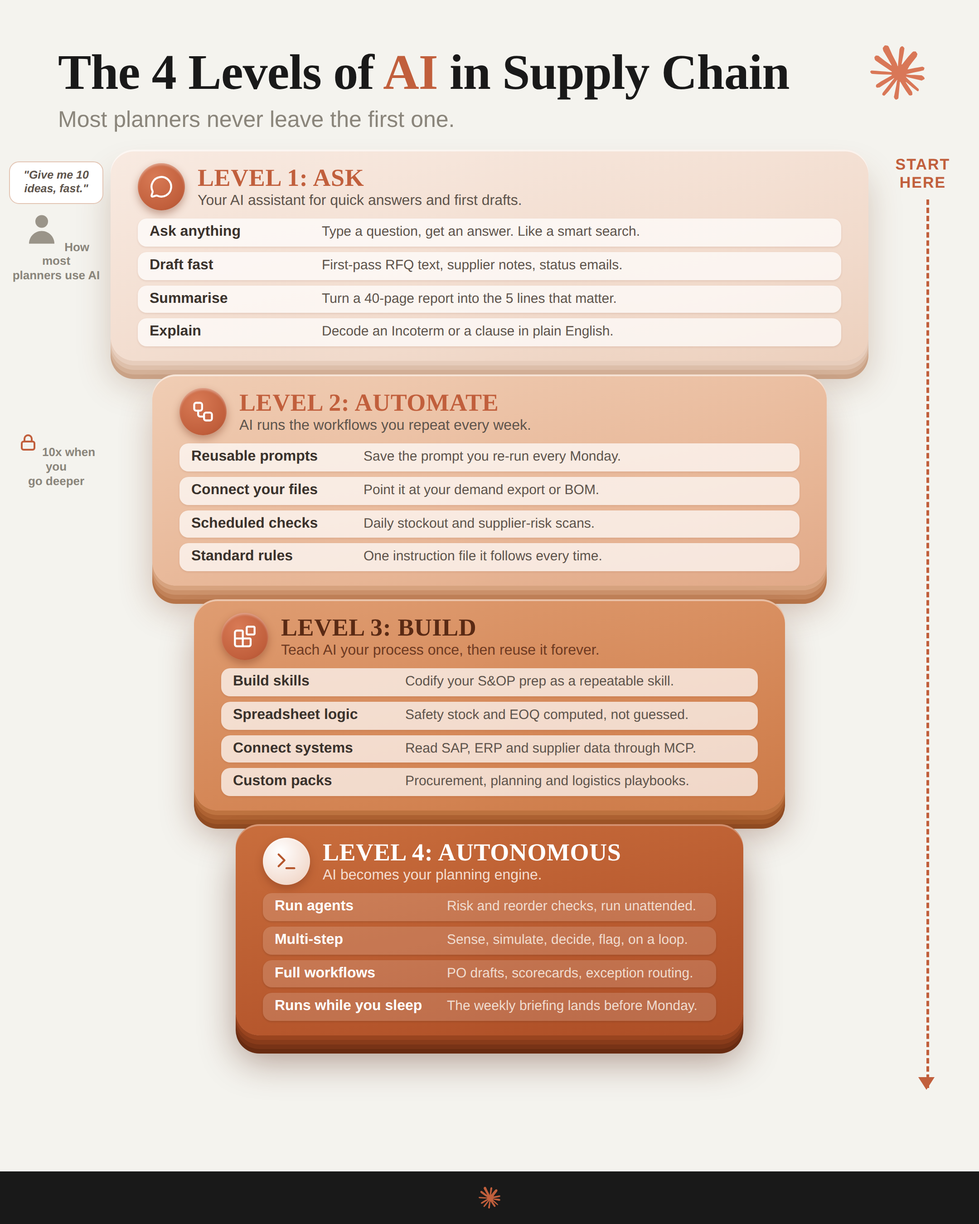
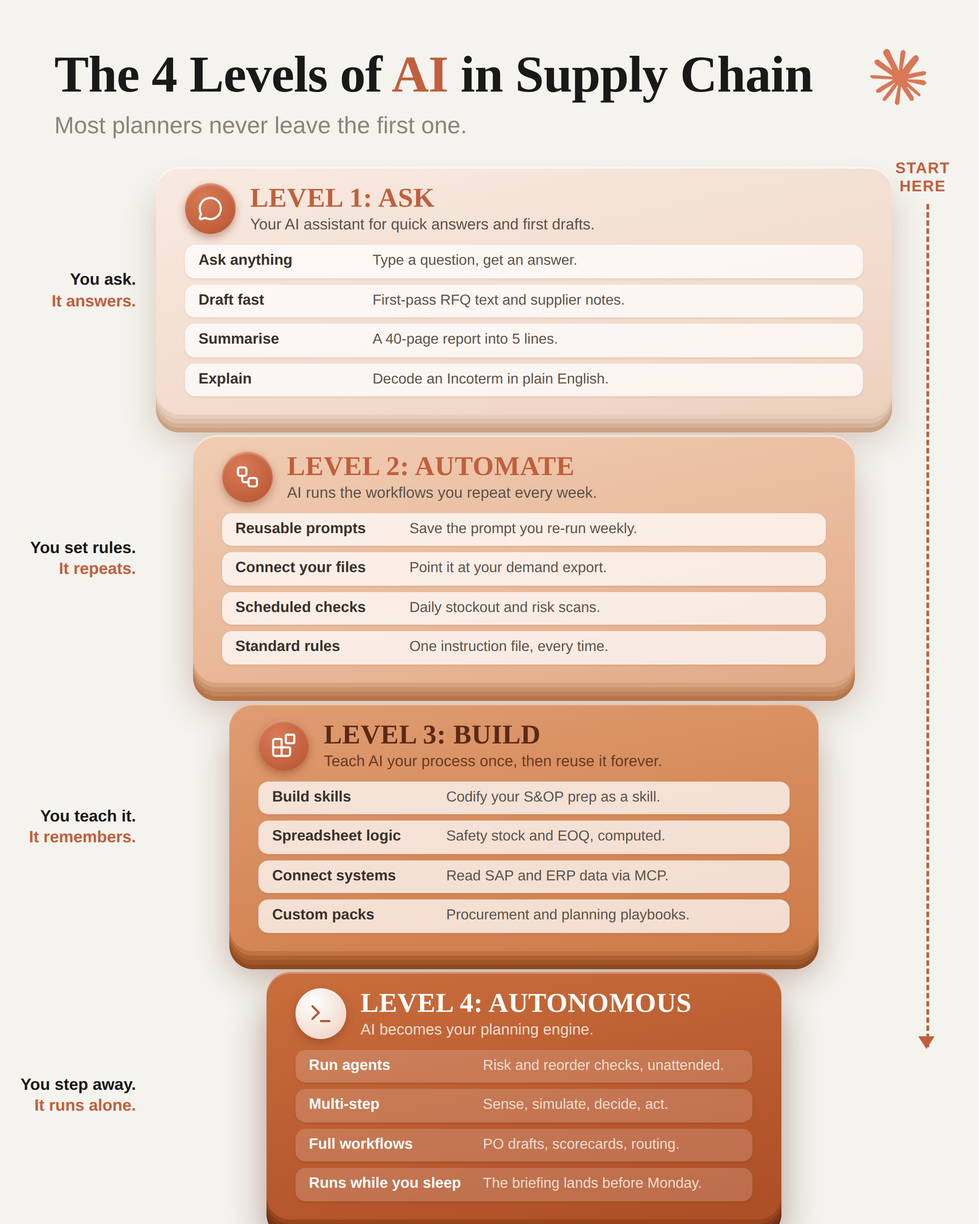
Redesign pilots: per-layer annotations, bigger type, more whitespace
PF1 (ladder):
- Replace jumbled left silhouette/padlock with one clean grid-aligned text
  block per layer ("You ask / It answers" ... "You step away / It runs alone")
- Remove black footer bar; larger type throughout; more whitespace

PF5 (hub):
- Remove black footer bar; bump text size across all cards for readability
- Use-case cards flex so Result anchors to the bottom (no hollow space)
- Normalize stack-logo strip; open up vertical whitespace

https://claude.ai/code/session_01Vrk5xpdsJ5u5M1yAaQw8Yb

diff --git a/infographic-setup/renderer/templates/pf1-maturity-ladder.html b/infographic-setup/renderer/templates/pf1-maturity-ladder.html
@@ -3,9 +3,10 @@
 <head>
 <meta charset="UTF-8">
 <!--
-  PF1 — Maturity Ladder  (reconstruction of reference file 71)
-  Icons: Lucide (ISC). Brand logo: @lobehub/icons-static-svg (Claude, official #D97757).
-  Canvas 1080x1350 (4:5). Coral-on-cream. No sign-off / no role badge (brand rule).
+  PF1 — Maturity Ladder v3 (reconstruction of reference file 71)
+  Per-layer left annotation blocks (grid-aligned), no footer bar, larger type,
+  more whitespace. Icons: Lucide (ISC). Brand: Claude logo (@lobehub/icons).
+  Canvas 1080x1350 (4:5). Coral-on-cream.
 -->
 <link rel="preconnect" href="https://fonts.googleapis.com">
 <link rel="preconnect" href="https://fonts.gstatic.com" crossorigin>
@@ -13,72 +14,65 @@
 <style>
   :root{
     --cream:#F4F3EE; --ink:#191919; --grey:#8A857B; --coral:#C15F3C;
-    --l1:#F3E0D6; --l2:#E7B59B; --l3:#D58A63; --l4:#B45A30;
-    --l1d:#E3C5B4; --l2d:#CF9778; --l3d:#B96E48; --l4d:#8E4322;
     --serif:'Fraunces',Georgia,serif; --sans:'Inter',-apple-system,'Segoe UI',Helvetica,Arial,sans-serif;
   }
   *{margin:0;padding:0;box-sizing:border-box;}
   body{background:#ddd;}
   .canvas{width:1080px;height:1350px;background:var(--cream);position:relative;
-    font-family:var(--sans);color:var(--ink);overflow:hidden;padding:52px 0 0;}
-  .head{padding:0 64px;}
-  .title{font-family:var(--serif);font-weight:700;font-size:55px;line-height:1.02;letter-spacing:-.5px;max-width:880px;}
+    font-family:var(--sans);color:var(--ink);overflow:hidden;padding:54px 0 0;}
+  .head{padding:0 60px;}
+  .title{font-family:var(--serif);font-weight:700;font-size:57px;line-height:1.02;letter-spacing:-.5px;max-width:870px;}
   .title .c{color:var(--coral);}
-  .sub{font-size:25px;color:var(--grey);margin-top:10px;font-weight:500;}
-  .brand{position:absolute;top:50px;right:60px;width:60px;height:60px;}
+  .sub{font-size:26px;color:var(--grey);margin-top:11px;font-weight:500;}
+  .brand{position:absolute;top:54px;right:58px;width:62px;height:62px;}
   .brand svg{width:100%;height:100%;}
-  /* ladder — true extruded 3D slabs */
-  .ladder{width:836px;margin:18px auto 0;display:flex;flex-direction:column;align-items:center;gap:15px;position:relative;}
-  .tier{border-radius:26px;padding:15px 30px 16px;position:relative;}
+  /* ladder */
+  .ladder{margin-top:30px;display:flex;flex-direction:column;gap:23px;}
+  .lrow{display:grid;grid-template-columns:172px 1fr 96px;align-items:center;}
+  .lside{text-align:right;padding-right:22px;}
+  .la-a{display:block;font-weight:700;font-size:18px;color:var(--ink);line-height:1.3;}
+  .la-b{display:block;font-weight:600;font-size:18px;color:var(--coral);line-height:1.3;}
+  .tier{justify-self:center;border-radius:26px;padding:18px 32px 20px;position:relative;}
   .t1{width:100%;background:linear-gradient(168deg,#F8EAE1 0%,#F1DACB 70%,#ECD0BD 100%);
     box-shadow:0 5px 0 #E7CDBC,0 10px 0 #DEC0AB,0 15px 0 #D4B198,0 20px 0 #CAA286,
-      0 26px 36px rgba(120,70,40,.26),inset 0 2px 0 rgba(255,255,255,.6);}
-  .t2{width:89%;background:linear-gradient(168deg,#F0CDB4 0%,#E7B595 70%,#E1A988 100%);
+      0 27px 38px rgba(120,70,40,.26),inset 0 2px 0 rgba(255,255,255,.6);}
+  .t2{width:90%;background:linear-gradient(168deg,#F0CDB4 0%,#E7B595 70%,#E1A988 100%);
     box-shadow:0 5px 0 #D7A37F,0 10px 0 #CC926B,0 15px 0 #C18259,0 20px 0 #B67449,
-      0 26px 36px rgba(120,60,30,.30),inset 0 2px 0 rgba(255,255,255,.5);}
-  .t3{width:78%;background:linear-gradient(168deg,#DF9D72 0%,#D38453 70%,#CC7A48 100%);
+      0 27px 38px rgba(120,60,30,.30),inset 0 2px 0 rgba(255,255,255,.5);}
+  .t3{width:80%;background:linear-gradient(168deg,#DF9D72 0%,#D38453 70%,#CC7A48 100%);
     box-shadow:0 5px 0 #BE7340,0 10px 0 #AE6232,0 15px 0 #9F5628,0 20px 0 #904B22,
-      0 26px 36px rgba(100,45,20,.34),inset 0 2px 0 rgba(255,255,255,.42);}
-  .t4{width:67%;background:linear-gradient(168deg,#C96E3D 0%,#B5562C 70%,#AC4E26 100%);color:#fff;
+      0 27px 38px rgba(100,45,20,.34),inset 0 2px 0 rgba(255,255,255,.42);}
+  .t4{width:70%;background:linear-gradient(168deg,#C96E3D 0%,#B5562C 70%,#AC4E26 100%);color:#fff;
     box-shadow:0 5px 0 #99441F,0 10px 0 #883B1A,0 15px 0 #783316,0 20px 0 #682B11,
-      0 28px 40px rgba(80,30,12,.42),inset 0 2px 0 rgba(255,255,255,.28);}
-  .thead{display:flex;align-items:center;gap:14px;margin-bottom:9px;}
-  .ticon{width:52px;height:52px;border-radius:50%;
+      0 29px 42px rgba(80,30,12,.42),inset 0 2px 0 rgba(255,255,255,.28);}
+  .thead{display:flex;align-items:center;gap:16px;margin-bottom:12px;}
+  .ticon{width:56px;height:56px;border-radius:50%;
     background:radial-gradient(circle at 36% 30%,#D87A55,#C15F3C 70%,#A94E2F);color:#fff;
     display:flex;align-items:center;justify-content:center;flex:0 0 auto;
     box-shadow:0 4px 9px rgba(120,50,25,.4),inset 0 2px 2px rgba(255,255,255,.35);}
   .t4 .ticon{background:radial-gradient(circle at 36% 30%,#fff,#F2DACD 75%);color:#B5562C;}
-  .ticon svg{width:26px;height:26px;}
-  .tlabel{font-family:var(--serif);font-weight:700;font-size:27px;color:var(--coral);letter-spacing:.3px;}
+  .ticon svg{width:28px;height:28px;}
+  .tlabel{font-family:var(--serif);font-weight:700;font-size:30px;color:var(--coral);letter-spacing:.3px;}
   .t4 .tlabel{color:#fff;} .t3 .tlabel{color:#5a2a14;}
-  .tdesc{font-size:16px;color:#5e544c;font-weight:500;margin-top:1px;}
+  .tdesc{font-size:17px;color:#5e544c;font-weight:500;margin-top:2px;}
   .t4 .tdesc{color:#f3ddd0;} .t3 .tdesc{color:#6e3a22;}
-  .rows{display:flex;flex-direction:column;gap:6px;}
-  .row{display:grid;grid-template-columns:176px 1fr;gap:14px;align-items:baseline;
-       background:rgba(255,255,255,.7);border-radius:10px;padding:6px 13px;
+  .rows{display:flex;flex-direction:column;gap:7px;}
+  .row{display:grid;grid-template-columns:178px 1fr;gap:14px;align-items:baseline;
+       background:rgba(255,255,255,.74);border-radius:11px;padding:8px 15px;
        box-shadow:0 1px 2px rgba(120,60,30,.12);}
-  .t4 .row{background:rgba(255,255,255,.16);box-shadow:0 1px 2px rgba(0,0,0,.12);}
-  .rk{font-weight:700;font-size:16px;color:#3a322c;} .t4 .rk{color:#fff;}
-  .rv{font-size:15px;color:#5e544c;line-height:1.25;} .t4 .rv{color:#f0dccf;}
-  /* margin annotations */
-  .anno{position:absolute;font-size:13px;color:var(--grey);font-weight:600;text-align:center;line-height:1.22;z-index:6;}
-  .anno-quote{left:10px;top:178px;width:104px;}
-  .anno-quote .bub{background:#fff;border:1.5px solid #E3C5B4;border-radius:11px;padding:7px 8px;color:#5e544c;font-style:italic;font-size:12.5px;margin-bottom:7px;}
-  .sil{width:42px;height:42px;margin:0 auto 3px;}
-  .anno-lock{left:10px;top:476px;width:104px;}
-  .anno-lock svg{width:24px;height:24px;margin-bottom:3px;stroke:var(--coral);}
-  .start{position:absolute;right:8px;top:172px;width:108px;text-align:center;}
+  .t4 .row{background:rgba(255,255,255,.17);box-shadow:0 1px 2px rgba(0,0,0,.12);}
+  .rk{font-weight:700;font-size:16.5px;color:#3a322c;} .t4 .rk{color:#fff;}
+  .rv{font-size:16px;color:#5e544c;line-height:1.28;} .t4 .rv{color:#f0dccf;}
+  /* right rail: START HERE + descending arrow */
+  .start{position:absolute;right:14px;top:176px;width:96px;text-align:center;z-index:5;}
   .start .lab{color:var(--coral);font-weight:700;font-size:17px;letter-spacing:1px;}
-  .start .arrow{width:14px;height:980px;margin:8px auto 0;border-right:3px dashed var(--coral);position:relative;}
-  .start .arrow:after{content:"";position:absolute;bottom:-2px;right:-9px;width:0;height:0;border-left:9px solid transparent;border-right:9px solid transparent;border-top:14px solid var(--coral);}
-  /* footer */
-  .foot{position:absolute;bottom:0;left:0;width:100%;height:58px;background:var(--ink);display:flex;align-items:center;justify-content:center;}
-  .foot svg{width:24px;height:24px;color:#C15F3C;}
+  .start .arrow{width:14px;height:930px;margin:9px auto 0;border-right:3px dashed var(--coral);position:relative;}
+  .start .arrow:after{content:"";position:absolute;bottom:-2px;right:-9px;width:0;height:0;
+    border-left:9px solid transparent;border-right:9px solid transparent;border-top:14px solid var(--coral);}
 </style>
 </head>
 <body>
 <div class="canvas" id="card">
-  <!-- official Claude brand mark -->
   <div class="brand"><svg viewBox="0 0 24 24" xmlns="http://www.w3.org/2000/svg"><path fill="#D97757" fill-rule="nonzero" d="M4.709 15.955l4.72-2.647.08-.23-.08-.128H9.2l-.79-.048-2.698-.073-2.339-.097-2.266-.122-.571-.121L0 11.784l.055-.352.48-.321.686.06 1.52.103 2.278.158 1.652.097 2.449.255h.389l.055-.157-.134-.098-.103-.097-2.358-1.596-2.552-1.688-1.336-.972-.724-.491-.364-.462-.158-1.008.656-.722.881.06.225.061.893.686 1.908 1.476 2.491 1.833.365.304.145-.103.019-.073-.164-.274-1.355-2.446-1.446-2.49-.644-1.032-.17-.619a2.97 2.97 0 01-.104-.729L6.283.134 6.696 0l.996.134.42.364.62 1.414 1.002 2.229 1.555 3.03.456.898.243.832.091.255h.158V9.01l.128-1.706.237-2.095.23-2.695.08-.76.376-.91.747-.492.584.28.48.685-.067.444-.286 1.851-.559 2.903-.364 1.942h.212l.243-.242.985-1.306 1.652-2.064.73-.82.85-.904.547-.431h1.033l.76 1.129-.34 1.166-1.064 1.347-.881 1.142-1.264 1.7-.79 1.36.073.11.188-.02 2.856-.606 1.543-.28 1.841-.315.833.388.091.395-.328.807-1.969.486-2.309.462-3.439.813-.042.03.049.061 1.549.146.662.036h1.622l3.02.225.79.522.474.638-.079.485-1.215.62-1.64-.389-3.829-.91-1.312-.329h-.182v.11l1.093 1.068 2.006 1.81 2.509 2.33.127.578-.322.455-.34-.049-2.205-1.657-.851-.747-1.926-1.62h-.128v.17l.444.649 2.345 3.521.122 1.08-.17.353-.608.213-.668-.122-1.374-1.925-1.415-2.167-1.143-1.943-.14.08-.674 7.254-.316.37-.729.28-.607-.461-.322-.747.322-1.476.389-1.924.315-1.53.286-1.9.17-.632-.012-.042-.14.018-1.434 1.967-2.18 2.945-1.726 1.845-.414.164-.717-.37.067-.662.401-.589 2.388-3.036 1.44-1.882.93-1.086-.006-.158h-.055L4.132 18.56l-1.13.146-.487-.456.061-.746.231-.243 1.908-1.312-.006.006z"/></svg></div>
 
   <div class="head">
@@ -86,70 +80,78 @@
     <div class="sub">Most planners never leave the first one.</div>
   </div>
 
-  <!-- annotations -->
-  <div class="anno anno-quote">
-    <div class="bub">"Give me 10 ideas, fast."</div>
-    <svg class="sil" viewBox="0 0 24 24" fill="#9a9489"><circle cx="12" cy="7" r="4"/><path d="M4 21c0-4.4 3.6-8 8-8s8 3.6 8 8z"/></svg>
-    How most<br>planners use AI
-  </div>
-  <div class="anno anno-lock">
-    <svg viewBox="0 0 24 24" fill="none" stroke-width="2" stroke-linecap="round" stroke-linejoin="round"><rect x="5" y="11" width="14" height="9" rx="2"/><path d="M8 11V8a4 4 0 0 1 8 0v3"/></svg>
-    10x when you<br>go deeper
-  </div>
   <div class="start"><div class="lab">START<br>HERE</div><div class="arrow"></div></div>
 
   <div class="ladder">
-    <div class="tier t1">
-      <div class="thead">
-        <div class="ticon"><svg viewBox="0 0 24 24" fill="none" stroke="currentColor" stroke-width="2" stroke-linecap="round" stroke-linejoin="round"><path d="M2.992 16.342a2 2 0 0 1 .094 1.167l-1.065 3.29a1 1 0 0 0 1.236 1.168l3.413-.998a2 2 0 0 1 1.099.092 10 10 0 1 0-4.777-4.719"/></svg></div>
-        <div><div class="tlabel">LEVEL 1: ASK</div><div class="tdesc">Your AI assistant for quick answers and first drafts.</div></div>
+    <!-- LEVEL 1 -->
+    <div class="lrow">
+      <div class="lside"><span class="la-a">You ask.</span><span class="la-b">It answers.</span></div>
+      <div class="tier t1">
+        <div class="thead">
+          <div class="ticon"><svg viewBox="0 0 24 24" fill="none" stroke="currentColor" stroke-width="2" stroke-linecap="round" stroke-linejoin="round"><path d="M2.992 16.342a2 2 0 0 1 .094 1.167l-1.065 3.29a1 1 0 0 0 1.236 1.168l3.413-.998a2 2 0 0 1 1.099.092 10 10 0 1 0-4.777-4.719"/></svg></div>
+          <div><div class="tlabel">LEVEL 1: ASK</div><div class="tdesc">Your AI assistant for quick answers and first drafts.</div></div>
+        </div>
+        <div class="rows">
+          <div class="row"><div class="rk">Ask anything</div><div class="rv">Type a question, get an answer.</div></div>
+          <div class="row"><div class="rk">Draft fast</div><div class="rv">First-pass RFQ text and supplier notes.</div></div>
+          <div class="row"><div class="rk">Summarise</div><div class="rv">A 40-page report into 5 lines.</div></div>
+          <div class="row"><div class="rk">Explain</div><div class="rv">Decode an Incoterm in plain English.</div></div>
+        </div>
       </div>
-      <div class="rows">
-        <div class="row"><div class="rk">Ask anything</div><div class="rv">Type a question, get an answer. Like a smart search.</div></div>
-        <div class="row"><div class="rk">Draft fast</div><div class="rv">First-pass RFQ text, supplier notes, status emails.</div></div>
-        <div class="row"><div class="rk">Summarise</div><div class="rv">Turn a 40-page report into the 5 lines that matter.</div></div>
-        <div class="row"><div class="rk">Explain</div><div class="rv">Decode an Incoterm or a clause in plain English.</div></div>
-      </div>
+      <div></div>
     </div>
-    <div class="tier t2">
-      <div class="thead">
-        <div class="ticon"><svg viewBox="0 0 24 24" fill="none" stroke="currentColor" stroke-width="2" stroke-linecap="round" stroke-linejoin="round"><rect width="8" height="8" x="3" y="3" rx="2"/><path d="M7 11v4a2 2 0 0 0 2 2h4"/><rect width="8" height="8" x="13" y="13" rx="2"/></svg></div>
-        <div><div class="tlabel">LEVEL 2: AUTOMATE</div><div class="tdesc">AI runs the workflows you repeat every week.</div></div>
+    <!-- LEVEL 2 -->
+    <div class="lrow">
+      <div class="lside"><span class="la-a">You set rules.</span><span class="la-b">It repeats.</span></div>
+      <div class="tier t2">
+        <div class="thead">
+          <div class="ticon"><svg viewBox="0 0 24 24" fill="none" stroke="currentColor" stroke-width="2" stroke-linecap="round" stroke-linejoin="round"><rect width="8" height="8" x="3" y="3" rx="2"/><path d="M7 11v4a2 2 0 0 0 2 2h4"/><rect width="8" height="8" x="13" y="13" rx="2"/></svg></div>
+          <div><div class="tlabel">LEVEL 2: AUTOMATE</div><div class="tdesc">AI runs the workflows you repeat every week.</div></div>
+        </div>
+        <div class="rows">
+          <div class="row"><div class="rk">Reusable prompts</div><div class="rv">Save the prompt you re-run weekly.</div></div>
+          <div class="row"><div class="rk">Connect your files</div><div class="rv">Point it at your demand export.</div></div>
+          <div class="row"><div class="rk">Scheduled checks</div><div class="rv">Daily stockout and risk scans.</div></div>
+          <div class="row"><div class="rk">Standard rules</div><div class="rv">One instruction file, every time.</div></div>
+        </div>
       </div>
-      <div class="rows">
-        <div class="row"><div class="rk">Reusable prompts</div><div class="rv">Save the prompt you re-run every Monday.</div></div>
-        <div class="row"><div class="rk">Connect your files</div><div class="rv">Point it at your demand export or BOM.</div></div>
-        <div class="row"><div class="rk">Scheduled checks</div><div class="rv">Daily stockout and supplier-risk scans.</div></div>
-        <div class="row"><div class="rk">Standard rules</div><div class="rv">One instruction file it follows every time.</div></div>
-      </div>
+      <div></div>
     </div>
-    <div class="tier t3">
-      <div class="thead">
-        <div class="ticon"><svg viewBox="0 0 24 24" fill="none" stroke="currentColor" stroke-width="2" stroke-linecap="round" stroke-linejoin="round"><path d="M10 22V7a1 1 0 0 0-1-1H4a2 2 0 0 0-2 2v12a2 2 0 0 0 2 2h12a2 2 0 0 0 2-2v-5a1 1 0 0 0-1-1H2"/><rect x="14" y="2" width="8" height="8" rx="1"/></svg></div>
-        <div><div class="tlabel">LEVEL 3: BUILD</div><div class="tdesc">Teach AI your process once, then reuse it forever.</div></div>
+    <!-- LEVEL 3 -->
+    <div class="lrow">
+      <div class="lside"><span class="la-a">You teach it.</span><span class="la-b">It remembers.</span></div>
+      <div class="tier t3">
+        <div class="thead">
+          <div class="ticon"><svg viewBox="0 0 24 24" fill="none" stroke="currentColor" stroke-width="2" stroke-linecap="round" stroke-linejoin="round"><path d="M10 22V7a1 1 0 0 0-1-1H4a2 2 0 0 0-2 2v12a2 2 0 0 0 2 2h12a2 2 0 0 0 2-2v-5a1 1 0 0 0-1-1H2"/><rect x="14" y="2" width="8" height="8" rx="1"/></svg></div>
+          <div><div class="tlabel">LEVEL 3: BUILD</div><div class="tdesc">Teach AI your process once, then reuse it forever.</div></div>
+        </div>
+        <div class="rows">
+          <div class="row"><div class="rk">Build skills</div><div class="rv">Codify your S&amp;OP prep as a skill.</div></div>
+          <div class="row"><div class="rk">Spreadsheet logic</div><div class="rv">Safety stock and EOQ, computed.</div></div>
+          <div class="row"><div class="rk">Connect systems</div><div class="rv">Read SAP and ERP data via MCP.</div></div>
+          <div class="row"><div class="rk">Custom packs</div><div class="rv">Procurement and planning playbooks.</div></div>
+        </div>
       </div>
-      <div class="rows">
-        <div class="row"><div class="rk">Build skills</div><div class="rv">Codify your S&amp;OP prep as a repeatable skill.</div></div>
-        <div class="row"><div class="rk">Spreadsheet logic</div><div class="rv">Safety stock and EOQ computed, not guessed.</div></div>
-        <div class="row"><div class="rk">Connect systems</div><div class="rv">Read SAP, ERP and supplier data through MCP.</div></div>
-        <div class="row"><div class="rk">Custom packs</div><div class="rv">Procurement, planning and logistics playbooks.</div></div>
-      </div>
+      <div></div>
     </div>
-    <div class="tier t4">
-      <div class="thead">
-        <div class="ticon"><svg viewBox="0 0 24 24" fill="none" stroke="currentColor" stroke-width="2" stroke-linecap="round" stroke-linejoin="round"><path d="M12 19h8"/><path d="m4 17 6-6-6-6"/></svg></div>
-        <div><div class="tlabel">LEVEL 4: AUTONOMOUS</div><div class="tdesc">AI becomes your planning engine.</div></div>
+    <!-- LEVEL 4 -->
+    <div class="lrow">
+      <div class="lside"><span class="la-a">You step away.</span><span class="la-b">It runs alone.</span></div>
+      <div class="tier t4">
+        <div class="thead">
+          <div class="ticon"><svg viewBox="0 0 24 24" fill="none" stroke="currentColor" stroke-width="2" stroke-linecap="round" stroke-linejoin="round"><path d="M12 19h8"/><path d="m4 17 6-6-6-6"/></svg></div>
+          <div><div class="tlabel">LEVEL 4: AUTONOMOUS</div><div class="tdesc">AI becomes your planning engine.</div></div>
+        </div>
+        <div class="rows">
+          <div class="row"><div class="rk">Run agents</div><div class="rv">Risk and reorder checks, unattended.</div></div>
+          <div class="row"><div class="rk">Multi-step</div><div class="rv">Sense, simulate, decide, act.</div></div>
+          <div class="row"><div class="rk">Full workflows</div><div class="rv">PO drafts, scorecards, routing.</div></div>
+          <div class="row"><div class="rk">Runs while you sleep</div><div class="rv">The briefing lands before Monday.</div></div>
+        </div>
       </div>
-      <div class="rows">
-        <div class="row"><div class="rk">Run agents</div><div class="rv">Risk and reorder checks, run unattended.</div></div>
-        <div class="row"><div class="rk">Multi-step</div><div class="rv">Sense, simulate, decide, flag, on a loop.</div></div>
-        <div class="row"><div class="rk">Full workflows</div><div class="rv">PO drafts, scorecards, exception routing.</div></div>
-        <div class="row"><div class="rk">Runs while you sleep</div><div class="rv">The weekly briefing lands before Monday.</div></div>
-      </div>
+      <div></div>
     </div>
   </div>
-
-  <div class="foot"><svg viewBox="0 0 24 24"><path fill="currentColor" fill-rule="nonzero" d="M4.709 15.955l4.72-2.647.08-.23-.08-.128H9.2l-.79-.048-2.698-.073-2.339-.097-2.266-.122-.571-.121L0 11.784l.055-.352.48-.321.686.06 1.52.103 2.278.158 1.652.097 2.449.255h.389l.055-.157-.134-.098-.103-.097-2.358-1.596-2.552-1.688-1.336-.972-.724-.491-.364-.462-.158-1.008.656-.722.881.06.225.061.893.686 1.908 1.476 2.491 1.833.365.304.145-.103.019-.073-.164-.274-1.355-2.446-1.446-2.49-.644-1.032-.17-.619a2.97 2.97 0 01-.104-.729L6.283.134 6.696 0l.996.134.42.364.62 1.414 1.002 2.229 1.555 3.03.456.898.243.832.091.255h.158V9.01l.128-1.706.237-2.095.23-2.695.08-.76.376-.91.747-.492.584.28.48.685-.067.444-.286 1.851-.559 2.903-.364 1.942h.212l.243-.242.985-1.306 1.652-2.064.73-.82.85-.904.547-.431h1.033l.76 1.129-.34 1.166-1.064 1.347-.881 1.142-1.264 1.7-.79 1.36.073.11.188-.02 2.856-.606 1.543-.28 1.841-.315.833.388.091.395-.328.807-1.969.486-2.309.462-3.439.813-.042.03.049.061 1.549.146.662.036h1.622l3.02.225.79.522.474.638-.079.485-1.215.62-1.64-.389-3.829-.91-1.312-.329h-.182v.11l1.093 1.068 2.006 1.81 2.509 2.33.127.578-.322.455-.34-.049-2.205-1.657-.851-.747-1.926-1.62h-.128v.17l.444.649 2.345 3.521.122 1.08-.17.353-.608.213-.668-.122-1.374-1.925-1.415-2.167-1.143-1.943-.14.08-.674 7.254-.316.37-.729.28-.607-.461-.322-.747.322-1.476.389-1.924.315-1.53.286-1.9.17-.632-.012-.042-.14.018-1.434 1.967-2.18 2.945-1.726 1.845-.414.164-.717-.37.067-.662.401-.589 2.388-3.036 1.44-1.882.93-1.086-.006-.158h-.055L4.132 18.56l-1.13.146-.487-.456.061-.746.231-.243 1.908-1.312-.006.006z"/></svg></div>
 </div>
 </body>
 </html>

diff --git a/infographic-setup/renderer/templates/pf5-radial-hub.html b/infographic-setup/renderer/templates/pf5-radial-hub.html
@@ -36,40 +36,39 @@
   .fcard{position:absolute;width:316px;background:#fff;border:1px solid #ECE5DB;border-radius:14px;
     padding:14px 16px;z-index:2;box-shadow:0 11px 24px rgba(80,40,20,.13),0 2px 5px rgba(80,40,20,.06),inset 0 1px 0 #fff;}
   .fhead{display:flex;align-items:center;gap:11px;margin-bottom:7px;}
-  .ficon{width:38px;height:38px;border-radius:10px;background:linear-gradient(145deg,#F7E4D9,#EED0BE);color:var(--coral);
+  .ficon{width:42px;height:42px;border-radius:11px;background:linear-gradient(145deg,#F7E4D9,#EED0BE);color:var(--coral);
     display:flex;align-items:center;justify-content:center;flex:0 0 auto;
     box-shadow:0 2px 5px rgba(150,80,50,.18),inset 0 1px 1px rgba(255,255,255,.75);}
-  .ficon svg{width:21px;height:21px;}
-  .ftitle{font-family:var(--serif);font-weight:700;font-size:21px;color:var(--ink);line-height:1;}
-  .fdesc{font-size:14.5px;color:#4f463e;line-height:1.32;}
-  .fbest{font-size:12.5px;color:#6a6057;margin-top:8px;border-top:1px dashed #E3DDD2;padding-top:6px;}
+  .ficon svg{width:23px;height:23px;}
+  .ftitle{font-family:var(--serif);font-weight:700;font-size:23px;color:var(--ink);line-height:1.02;}
+  .fdesc{font-size:15.5px;color:#4f463e;line-height:1.34;}
+  .fbest{font-size:13.5px;color:#6a6057;margin-top:9px;border-top:1px dashed #E3DDD2;padding-top:7px;}
   .fbest b{color:var(--coral);font-weight:700;}
-  .ucard{position:absolute;top:780px;width:312px;height:372px;border-radius:14px;padding:16px 17px;z-index:2;}
+  .ucard{position:absolute;top:778px;width:312px;height:384px;border-radius:14px;padding:18px 19px;z-index:2;display:flex;flex-direction:column;}
   .uc{background:#fff;border:1px solid #ECE5DB;box-shadow:0 11px 24px rgba(80,40,20,.13),0 2px 5px rgba(80,40,20,.06),inset 0 1px 0 #fff;}
   .ulabel{font-size:12px;font-weight:700;letter-spacing:.8px;text-transform:uppercase;color:#fff;background:var(--coral);
     display:inline-block;padding:4px 10px;border-radius:6px;margin-bottom:10px;}
-  .uhead{font-family:var(--serif);font-weight:700;font-size:22px;line-height:1.05;margin-bottom:12px;}
+  .uhead{font-family:var(--serif);font-weight:700;font-size:24px;line-height:1.06;margin-bottom:14px;}
   .step{display:grid;grid-template-columns:26px 1fr;gap:9px;margin-bottom:9px;align-items:start;}
   .snum{width:24px;height:24px;border-radius:50%;background:var(--tint);color:var(--coral-deep);font-weight:700;
     font-size:13px;display:flex;align-items:center;justify-content:center;}
-  .stext{font-size:14px;color:#4f463e;line-height:1.28;}
-  .uresult{margin-top:10px;background:var(--tint);border-radius:8px;padding:9px 11px;font-size:14px;color:#6a3a23;}
+  .stext{font-size:15.5px;color:#4f463e;line-height:1.3;}
+  .uresult{margin-top:auto;background:var(--tint);border-radius:8px;padding:11px 13px;font-size:15.5px;color:#6a3a23;}
   .uresult b{color:var(--coral-deep);}
   .watch{background:#FBF4E6;border:1.5px solid #F0E0BC;}
   .watch .ulabel{background:var(--caution);display:flex;align-items:center;gap:6px;}
   .watch .ulabel svg{width:14px;height:14px;}
-  .wbody{font-size:15px;color:#5a4a24;line-height:1.4;}
+  .wbody{font-size:16.5px;color:#5a4a24;line-height:1.42;}
   .wbody b{color:var(--caution);}
   .wlist{margin-top:12px;}
-  .wrow{display:flex;gap:8px;font-size:13.5px;color:#5a4a24;margin-bottom:8px;line-height:1.3;}
+  .wrow{display:flex;gap:9px;font-size:15px;color:#5a4a24;margin-bottom:10px;line-height:1.32;}
   .wdot{color:var(--caution);font-weight:700;}
-  .stack{position:absolute;left:0;top:1176px;width:100%;display:flex;flex-direction:column;align-items:center;gap:11px;}
+  .stack{position:absolute;left:0;top:1198px;width:100%;display:flex;flex-direction:column;align-items:center;gap:12px;}
   .stack .lab{font-size:12px;font-weight:700;letter-spacing:1.6px;color:#a39c91;text-transform:uppercase;}
   .stack .row{display:flex;align-items:center;justify-content:center;gap:18px;}
   .stack .lb{width:118px;height:34px;display:flex;align-items:center;justify-content:center;}
   .stack .lb img{max-height:28px;max-width:112px;width:auto;height:auto;object-fit:contain;}
-  .foot{position:absolute;bottom:0;left:0;width:100%;height:56px;background:var(--ink);display:flex;align-items:center;justify-content:center;}
-  .foot svg{width:23px;height:23px;color:#C15F3C;}
+  /* footer bar removed */
 </style>
 </head>
 <body>
@@ -166,7 +165,6 @@
     </div>
   </div>
 
-  <div class="foot"><svg viewBox="0 0 24 24"><path fill="currentColor" fill-rule="nonzero" d="M4.709 15.955l4.72-2.647.08-.23-.08-.128H9.2l-.79-.048-2.698-.073-2.339-.097-2.266-.122-.571-.121L0 11.784l.055-.352.48-.321.686.06 1.52.103 2.278.158 1.652.097 2.449.255h.389l.055-.157-.134-.098-.103-.097-2.358-1.596-2.552-1.688-1.336-.972-.724-.491-.364-.462-.158-1.008.656-.722.881.06.225.061.893.686 1.908 1.476 2.491 1.833.365.304.145-.103.019-.073-.164-.274-1.355-2.446-1.446-2.49-.644-1.032-.17-.619a2.97 2.97 0 01-.104-.729L6.283.134 6.696 0l.996.134.42.364.62 1.414 1.002 2.229 1.555 3.03.456.898.243.832.091.255h.158V9.01l.128-1.706.237-2.095.23-2.695.08-.76.376-.91.747-.492.584.28.48.685-.067.444-.286 1.851-.559 2.903-.364 1.942h.212l.243-.242.985-1.306 1.652-2.064.73-.82.85-.904.547-.431h1.033l.76 1.129-.34 1.166-1.064 1.347-.881 1.142-1.264 1.7-.79 1.36.073.11.188-.02 2.856-.606 1.543-.28 1.841-.315.833.388.091.395-.328.807-1.969.486-2.309.462-3.439.813-.042.03.049.061 1.549.146.662.036h1.622l3.02.225.79.522.474.638-.079.485-1.215.62-1.64-.389-3.829-.91-1.312-.329h-.182v.11l1.093 1.068 2.006 1.81 2.509 2.33.127.578-.322.455-.34-.049-2.205-1.657-.851-.747-1.926-1.62h-.128v.17l.444.649 2.345 3.521.122 1.08-.17.353-.608.213-.668-.122-1.374-1.925-1.415-2.167-1.143-1.943-.14.08-.674 7.254-.316.37-.729.28-.607-.461-.322-.747.322-1.476.389-1.924.315-1.53.286-1.9.17-.632-.012-.042-.14.018-1.434 1.967-2.18 2.945-1.726 1.845-.414.164-.717-.37.067-.662.401-.589 2.388-3.036 1.44-1.882.93-1.086-.006-.158h-.055L4.132 18.56l-1.13.146-.487-.456.061-.746.231-.243 1.908-1.312-.006.006z"/></svg></div>
 </div>
 </body>
 </html>
